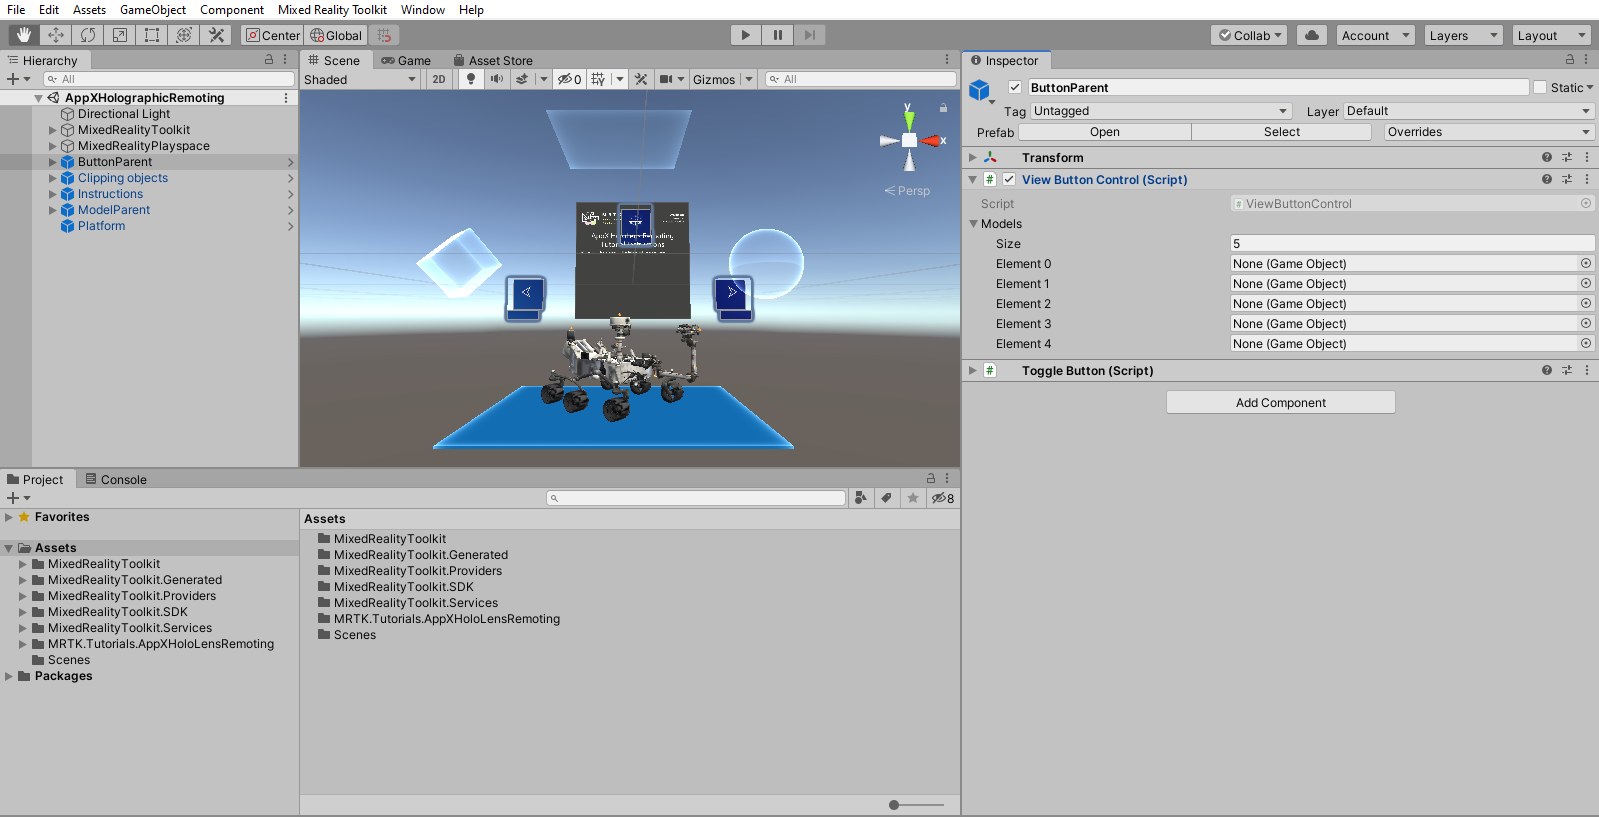
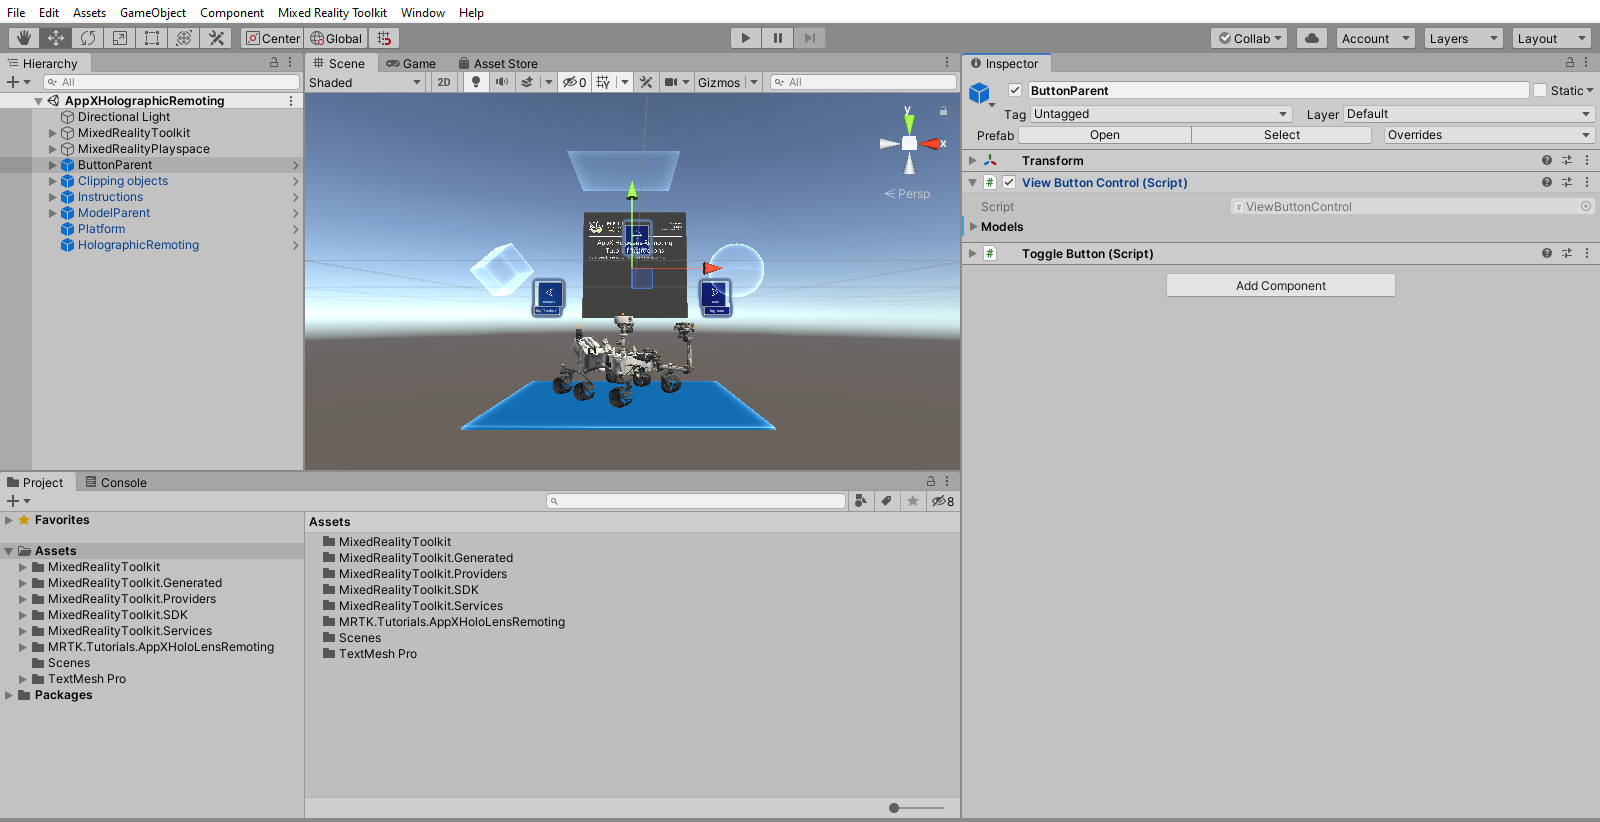
1 Screenshot in AppxHoloLens changes

diff --git a/mixed-reality-docs/mrlearning-appx-ch1.md b/mixed-reality-docs/mrlearning-appx-ch1.md
@@ -150,10 +150,6 @@ For demonstration we have provided with 5 different 3D models for this tutorial,
 
 In the Hierarchy Click on **ButtonParent** object and on the Inspector widow Expand the **ViewControlScript** now you could find the **Modles[]** Field which indicates the No of 3D models in the Scene.
 
-<!-- TODO: change this Screenshot with model size 0 -->
-
-
-
 ![mrlearning-appx](images\mrlearning-appx\Tutorial1-Section4-Step2-2.png)
 
 
